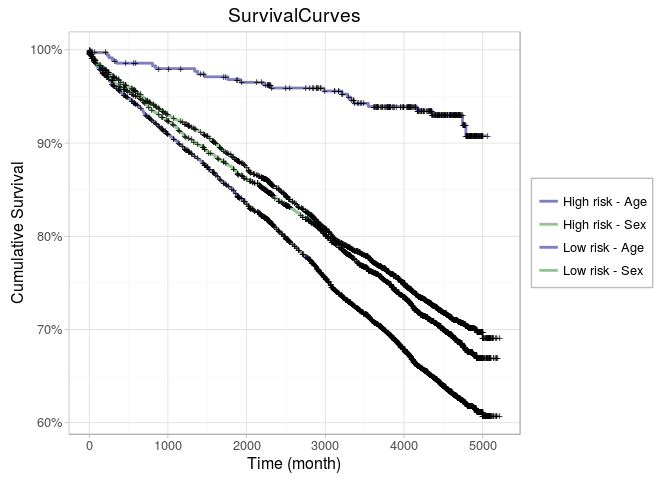
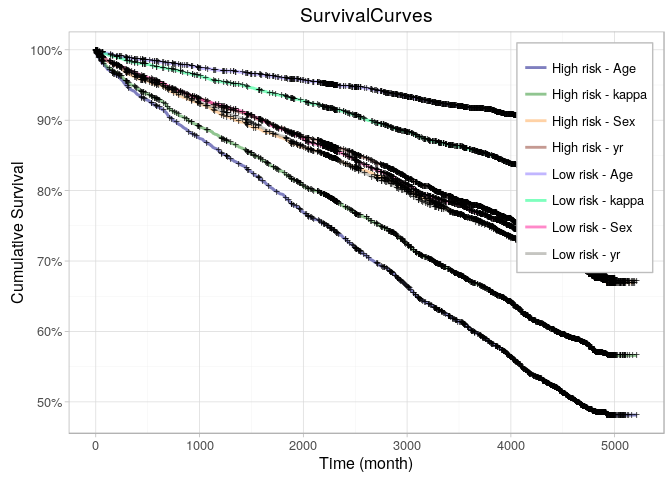
improvement on kaplan meier colors

diff --git a/README.md b/README.md
@@ -50,9 +50,9 @@ suppressPackageStartupMessages(library(ggfortify))
 suppressPackageStartupMessages(library(gridExtra))
 data(flchain)
 ydata <- data.frame( time = flchain$futime, status = flchain$death)
-xdata <- cbind(flchain$age, as.numeric(flchain$sex == 'M'))
-page <- draw.kaplan(list(Age= c(1,0)), xdata = xdata, ydata = ydata)$plot
-psex <- draw.kaplan(list(Age= c(0,1)), xdata = xdata, ydata = ydata)$plot
+xdata <- cbind(flchain$age, as.numeric(flchain$sex == 'M'), flchain$sample.yr, flchain$kappa)
+page <- draw.kaplan(list(Age= c(1,0,0,0)), xdata = xdata, ydata = ydata)$plot
+psex <- draw.kaplan(list(Age= c(0,1,0,0)), xdata = xdata, ydata = ydata)$plot
 grid.arrange(page, psex, ncol = 2)
 ```
 
@@ -60,7 +60,7 @@ grid.arrange(page, psex, ncol = 2)
 
 ``` r
 #
-draw.kaplan(list(Age= c(1,0), Sex = c(0,1)), xdata = xdata, ydata = ydata)$plot
+draw.kaplan(list(Age= c(1,0,0,0), Sex = c(0,1,0,0), yr = c(0,0,1,0), kappa = c(0,0,0,1)), xdata = xdata, ydata = ydata)$plot
 ```
 
 ![](README-draw.kaplan-2.png)
